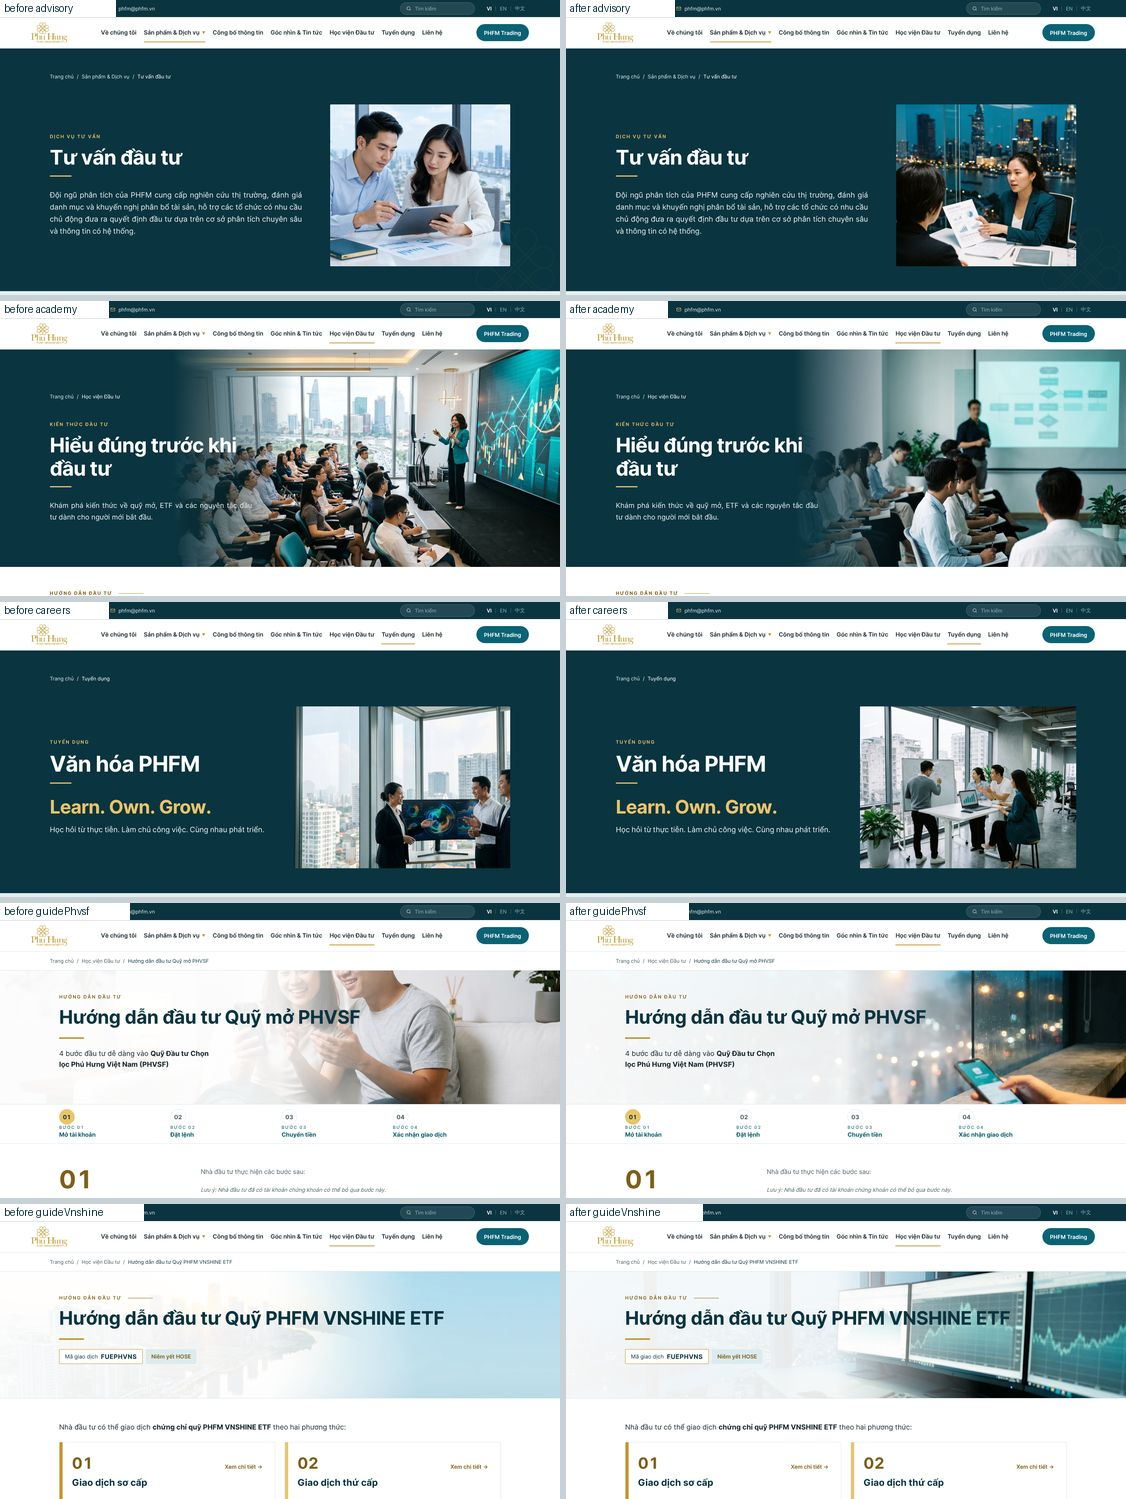
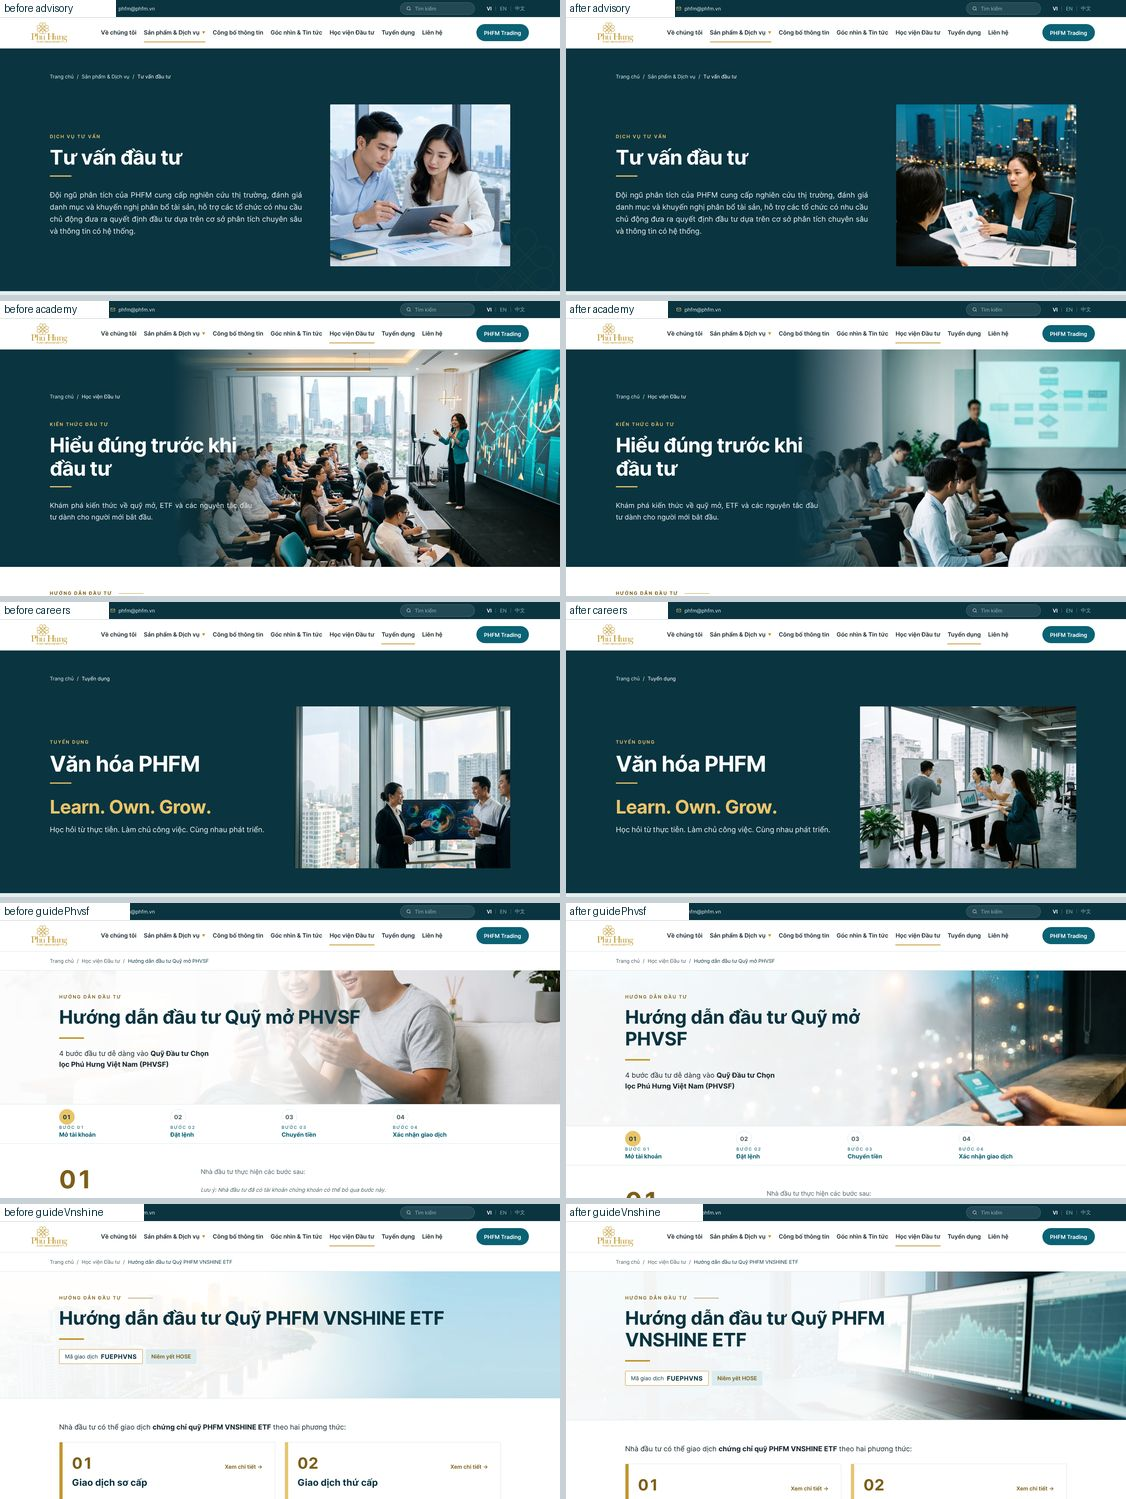
R4-09: sửa review vòng 1, tương phản tiêu đề hero Hướng dẫn
- Hero Hướng dẫn (>= 701px): lớp mờ trắng rộng hơn, tiêu đề tối đa min(720px, 60vw). Tiêu đề >= 7,7:1, chữ phụ >= 4,9:1 ở 768-1440, VI/EN/中文.
- Khung cắt mobile ảnh Hướng dẫn thêm !important để thắng luật cũ <= 700px.
- Cập nhật ảnh review và changelog.

Claude-Session: https://claude.ai/code/session_01972Ho4cVfY1nWby66M8dMW

diff --git a/src/parts/r4.css b/src/parts/r4.css
@@ -32,6 +32,11 @@
 .nm-ghero>img.gh-v{object-position:75% 50%}
 @media(max-width:760px){
   .fh>img{object-position:80% 50%!important}
-  .nm-ghero>img.gh-p{object-position:88% 50%}
-  .nm-ghero>img.gh-v{object-position:80% 50%}
+  .nm-ghero>img.gh-p{object-position:88% 50%!important}
+  .nm-ghero>img.gh-v{object-position:80% 50%!important}
+}
+/* Hướng dẫn: ảnh mới tối hơn ảnh cũ, lớp mờ trắng rộng hơn và tiêu đề hẹp lại để chữ tối không rơi lên vùng ảnh tối (>= 701px; dưới đó ảnh nằm riêng dưới chữ) */
+@media(min-width:701px){
+  .nm-ghero h1{max-width:min(720px,60vw)!important}
+  .nm-ghero>img+div{background:linear-gradient(90deg,rgba(255,255,255,.97) 0%,rgba(255,255,255,.92) 55%,rgba(255,255,255,0) 82%)!important}
 }

diff --git a/specs/changelog.md b/specs/changelog.md
@@ -45,6 +45,6 @@ Cột: Trang | Thay đổi | Lý do. Vòng mới nối thêm ở cuối bảng.
 | Về chúng tôi | Giá trị cốt lõi: hiện chữ Hán 新 速 實 簡 trên tên giá trị (Noto Serif TC, 60px desktop / 56px mobile, vàng logo `#C0962D`); font subset 4 chữ nhúng base64 (2 KB) | Dữ liệu `values[].c` đã có nhưng template chưa hiện |
 | Về chúng tôi, PHVSF, VNSHINE, Quỹ thành viên, Danh mục đầu tư, Tư vấn, Học viện, Tuyển dụng | Thu chiều cao hero: bỏ `min-height:min(900px, ...)`. Desktop ≥1280 cao tối thiểu 560px (trang quỹ 600px), 768–1279 480px, mobile không đặt; khoảng trên/dưới 64px (mobile 32px/40px). Ảnh hero trang dịch vụ đổi khung cắt từ tỉ lệ 4/5 sang 10/9 (mobile 16/10), ảnh giữ nguyên; ảnh Quỹ thành viên cắt về bên trái (`object-position:20% 30%`) để desktop chỉ còn anh tư vấn trẻ; mobile Về chúng tôi ảnh dưới chữ cao 320px; mobile khoảng cách breadcrumb → nội dung và chữ → ảnh thu còn 28px. Khoảng 64px chỉ áp từ 1280px; hero Học viện layout hẹp dùng chung `.hero-in`; layout hẹp (About, Học viện, dưới 1400px) đánh dấu `.hero-nar`, giữ padding cũ ở 1280–1399. Luật chung ở `.hero-sub` / `.hero-in` / `.hero-pic` trong `r4.css` | Hero cao 775–795px đẩy nội dung xuống dưới màn hình đầu; cao hero 1440 nay 560–625px |
 | Về chúng tôi | Hero chuyển sang nền teal đậm `#0A3440`, chữ trắng, ảnh `r5_about_hero` bên phải (kiểu hero trang con, class `dh`); lớp mờ chuyển từ trắng sang teal, rộng hơn để chữ trên ảnh đạt tương phản ≥ 4.5:1. Chiều cao không tăng (1440: 563px, 1366–1024: 951px VI) | Cùng kiểu với hero các trang con khác (R4-09) |
-| PHVSF, VNSHINE, Quỹ thành viên, Danh mục, Tư vấn, Học viện, Tuyển dụng, 2 trang Hướng dẫn | Thay ảnh hero theo từng vị trí bằng bộ stock `r5_*` (H2–H10). Khung cắt: ảnh quỹ 75% 50% (mobile 80%), Hướng dẫn PHVSF 85% (mobile 88%), Hướng dẫn VNSHINE 75% (mobile 80%), ảnh dịch vụ theo chủ thể. Hero Học viện đổi lớp mờ sang teal rộng hơn vì ảnh mới sáng. Alt hai trang Hướng dẫn đổi theo nội dung ảnh (VI/EN/中文) | Bớt ảnh AI quá lố, thêm ảnh tài chính theo giờ xanh khớp trang chủ (#14) |
+| PHVSF, VNSHINE, Quỹ thành viên, Danh mục, Tư vấn, Học viện, Tuyển dụng, 2 trang Hướng dẫn | Thay ảnh hero theo từng vị trí bằng bộ stock `r5_*` (H2–H10). Khung cắt: ảnh quỹ 75% 50% (mobile 80%), Hướng dẫn PHVSF 85% (mobile 88%), Hướng dẫn VNSHINE 75% (mobile 80%), ảnh dịch vụ theo chủ thể. Hero Học viện đổi lớp mờ sang teal rộng hơn vì ảnh mới sáng. Alt hai trang Hướng dẫn đổi theo nội dung ảnh (VI/EN/中文). Hero Hướng dẫn (≥ 701px): lớp mờ trắng rộng hơn (đặc đến 55%, hết ở 82%) và tiêu đề tối đa `min(720px, 60vw)` vì ảnh mới tối, chữ tối trên ảnh chỉ 1,3–2,3:1; hero cao thêm 56px. Khung cắt mobile của hai ảnh Hướng dẫn thêm `!important` để thắng luật cũ ≤ 700px | Bớt ảnh AI quá lố, thêm ảnh tài chính theo giờ xanh khớp trang chủ (#14) |
 | Góc nhìn & Tin tức | Thay 10 ảnh bài viết (N1–N10) bằng `r5_nw_*`; ba ảnh tin sự kiện giữ nguyên | Ảnh báo tài chính ban ngày, mỗi bài một ảnh (#14) |
 | Toàn site | Xoá 16 ảnh cũ không còn dùng khỏi `assets/img` (ab_hero, advisor, team, nw_city, pk_I05, pk_I07, pk_I12–I15, pk_I17, pk_I18, r3_adv_hero, r3_vns_hero, r3_nw_msci, r3_nw_rot). Thêm `qa/check-images.js` kiểm từng vị trí hiện đúng khoá ảnh và không trùng khoá | Dọn ảnh thừa sau R4-09 |
